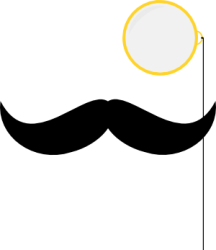
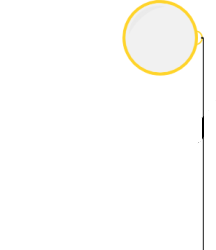
export the default, import images assests as assets

Changed region(s): [[0.0, 0.392, 1.0, 0.644]]

diff --git a/funny-face-lib/src/lib/defaults/accessory.ts b/funny-face-lib/src/lib/defaults/accessory.ts
@@ -1,25 +1,22 @@
 import { Accessory } from "../types";
+import monocle from "../assets/monocle.png"
+import moustache from "../assets/moustache.png"
+import hat from "../assets/non-burning-hat.png"
 
 export const accessoryMap: Record<string, Accessory> = {
     HAT: {
-        src: './assets/non-burning-hat.png',
-        x: 0, y: -60, width: 80
-    },
-    BADGE: {
-        src: './assets/favicon.ico',
-        x: 0, y: -60, width: 20,
-        priority: 2,
+        src: hat, x: 0, y: -60, width: 80
     },
     MONOCLE: {
-        src: "./assets/monocle2.png", x: -14, y: 20, width: 64, place: 'right-eye'
+        src: monocle, x: -14, y: 20, width: 64, place: 'right-eye'
     },
     MONOCLE_BACKWARDS: {
-        src: "./assets/monocle2.png", x: -14, y: 20, width: 64, place: 'left-eye'
+        src: monocle, x: -14, y: 20, width: 64, place: 'left-eye'
     },
     MOUSTACHE: {
-        src: "./assets/moustache.png", x: 0, y: 0, width: 64, place: 'nose'
+        src: moustache, x: 0, y: 0, width: 64, place: 'nose'
     },
     BEARD: {
-        src: "./assets/moustache.png", x: 0, y: -10, width: 32, place: 'chin'
+        src: moustache, x: 0, y: -10, width: 32, place: 'chin'
     },
 }

diff --git a/test-app/src/app/app.tsx b/test-app/src/app/app.tsx
@@ -1,11 +1,11 @@
-import { UIForHead, HeadWithExpressionControl } from '../../../funny-face-lib/src/index';
+import { UIForHead, HeadWithExpressionControl, accessoryMap } from '../../../funny-face-lib/src/index';
 
 
 export const App = () => {
   return (
     <div>
       <p>test app runs</p>
-      <UIForHead accessoryMap={{}} />
+      <UIForHead accessoryMap={accessoryMap} />
 
       <svg>
         <HeadWithExpressionControl x={10} y={10} profile={{ color: 'blue' }} />

diff --git a/funny-face-lib/src/index.ts b/funny-face-lib/src/index.ts
@@ -1,3 +1,4 @@
 export { UIForHead } from './lib/components/UIForHead';
 export { HeadWithExpressionControl } from './lib/components/HeadWithExpressionControl';
 
+export * from './lib/defaults'

diff --git a/funny-face-lib/src/lib/defaults/index.ts b/funny-face-lib/src/lib/defaults/index.ts
@@ -1,0 +1,4 @@
+export * from './accessory'
+export * from './browShapes'
+export * from './expressions'
+export * from './toothShapes'
